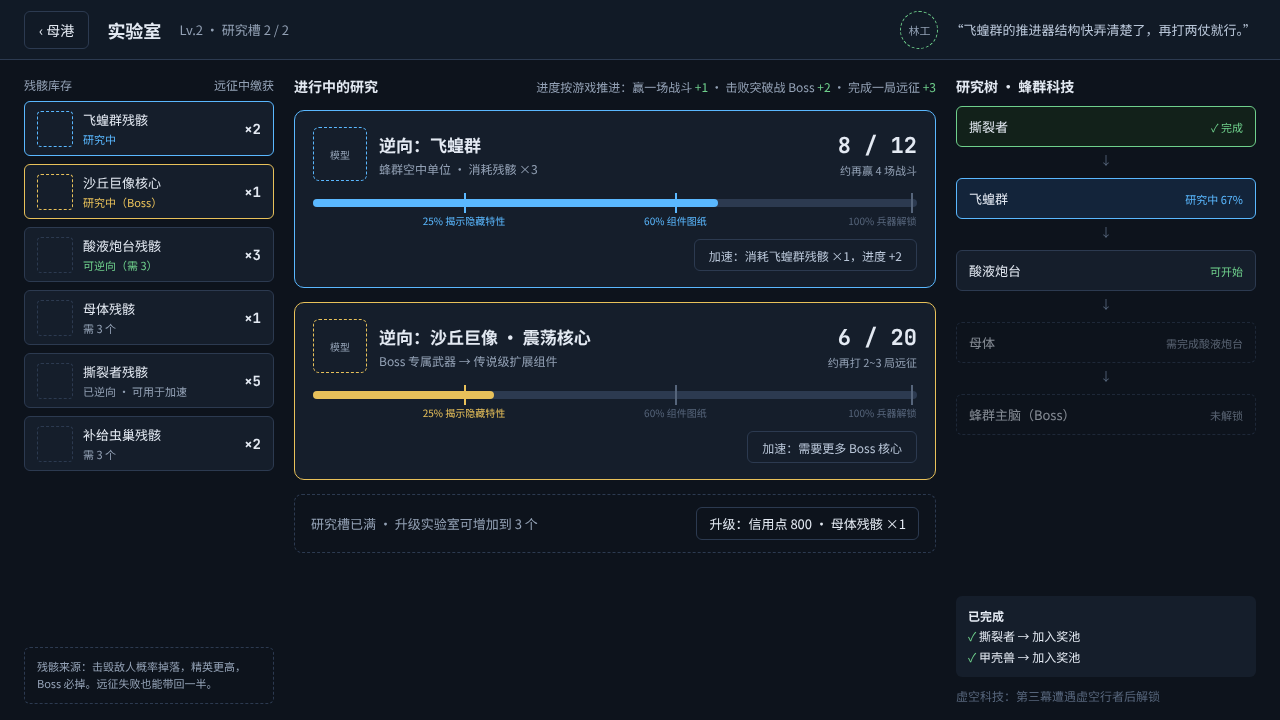
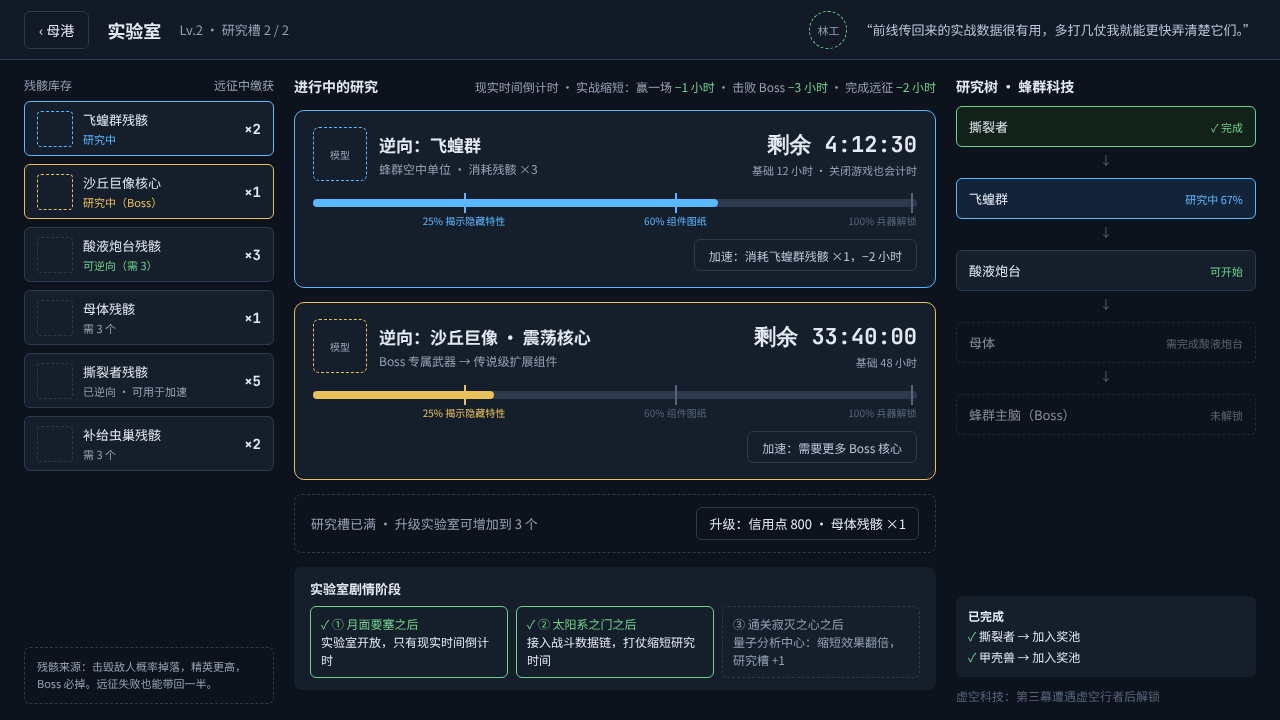
Lab research uses real time with story-unlocked battle reductions
Claude-Session: https://claude.ai/code/session_01PsMEfYBNb8V2Yeq91JyHa6

diff --git a/docs/game-design.md b/docs/game-design.md
@@ -949,7 +949,7 @@ XFramework/
 | Q9 | 天梯与实时对战是否作为独立模式保留 | 待定：可以只保留远征中的“玩家阵容”节点，也可以另做独立模式 |
 | Q10 | 舰队耐久点数、每幕节点数、单场战斗时长 | 5 点；每幕 5~6 个节点；20~40 秒 |
 | Q11 | 推演准确度与情报点数量 | 每局初始 3 点情报点，误差约 ±8%（隐藏特性越多误差越大） |
-| Q12 | 逆向研究的时间计算方式 | 按游戏进度（赢战斗、完成远征）计算，不按现实时间；如需改为现实时间倒计时再调整 |
+| Q12 | 逆向研究的时间计算方式 | 已确定：现实时间倒计时为主；随剧情解锁“实战缩短”（赢战斗、击败 Boss、完成远征减少剩余时间） |
 
 ---
 
@@ -1064,17 +1064,32 @@ XFramework/
 **实验室（局外，母港中的新模块）**
 
 - 在实验室中用残骸**发起逆向研究**，每个研究项目需要一定数量的同类残骸（例如飞蝗群残骸 ×3）。
-- **研究需要时间，但时间按游戏进度计算，不按现实时间计算**：
+- **研究时间：现实时间为主，实战缩短为辅**
 
-| 行为 | 研究进度 |
+**基础研究时间（现实时间）**
+
+| 研究对象 | 基础时间 |
 |---|---|
-| 赢得一场战斗 | +1 |
-| 击败一个突破战 Boss | +2 |
-| 完成一局远征（无论胜负） | +3 |
+| 普通敌人 | 12 小时 |
+| 精英敌人 | 18 小时 |
+| Boss 专属武器 | 48 小时 |
 
-- 普通敌人约需 10~12 点进度（约 1~2 局远征），Boss 武器约需 20 点（约 3~4 局）。
-- 所有研究槽中的项目**同时推进**。不设现实时间倒计时，不需要定时上线，不玩也不会损失进度。
-- 可以额外消耗残骸**加速研究**（每多消耗 1 个同类残骸，进度 +2）。
+- 研究开始后按现实时间倒计时，**关闭游戏也会继续计时**。
+- 研究完成后成果一直保留，等玩家上线领取，**不会过期，也没有任何惩罚**。
+
+**实战缩短（随剧情解锁）**
+
+打仗可以缩短**所有进行中的研究**的剩余时间。这个能力随剧情逐步开放：
+
+| 解锁时机 | 剧情 | 效果 |
+|---|---|---|
+| 首次击败第一幕突破战“月面要塞” | 林工从要塞残骸中带回第一批蜂群样本，**实验室开放** | 只有现实时间倒计时 |
+| 首次击败第二幕突破战“太阳系之门” | 林工接入舰队的战斗数据链，“实战数据能帮我们看懂它们的结构” | 赢一场战斗 **−1 小时**；击败突破战 Boss **−3 小时**；完成一局远征（无论胜负）**−2 小时** |
+| 首次通关最终战“寂灭之心” | 诺娃协助解析远古技术，实验室升级为“量子分析中心” | 以上缩短效果**翻倍**，并增加 1 个研究槽 |
+
+- 每天玩 30 分钟左右（一局远征），在第二阶段大约能缩短 10~20 小时，基本能当天完成一个普通研究；不玩游戏时研究也照常按现实时间完成。
+- **加速**：额外消耗 1 个同类残骸，剩余时间 −2 小时。
+- 以上时间均为初始设定，在测试中根据玩家节奏调整。
 
 **研究阶段与成果**
 
@@ -1102,5 +1117,5 @@ XFramework/
 **和其他玩法的联动**
 
 - **战前推演**：研究到 25% 就能消除对应敌人的推演误差，研究越多，推演越准。
-- **剧情**：人类正是通过逆向蜂群残骸，才造出了第一艘宇宙战舰“晨星号”。实验室的首席研究员由林工担任，研究完成时有角色对话。
+- **剧情**：人类正是通过逆向蜂群残骸，才造出了第一艘宇宙战舰“晨星号”。实验室的首席研究员由林工担任，实验室的每次升级都对应一段剧情，研究完成时也有角色对话。
 - **优先级**：在补给网络和战前推演验证好玩之后再加入。
